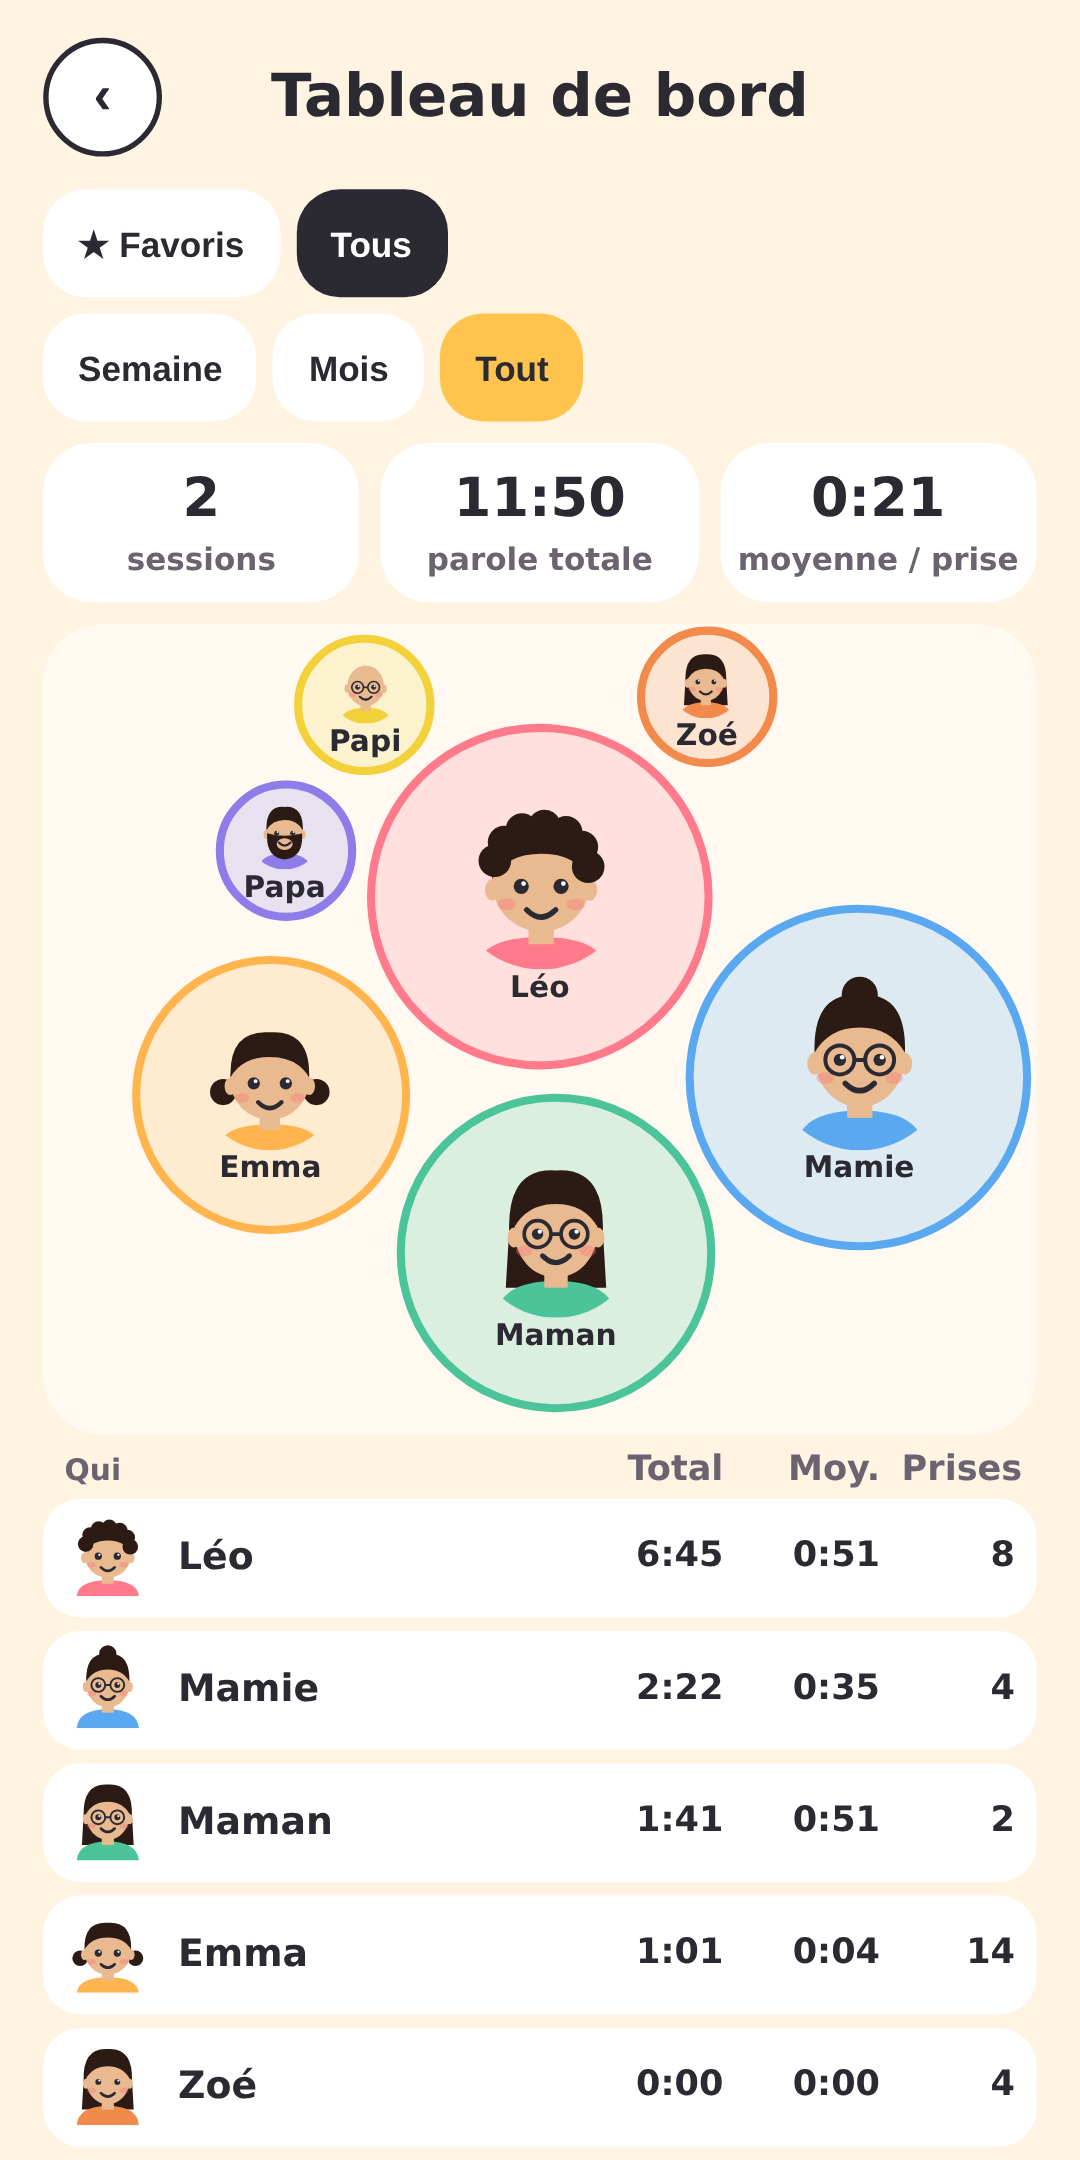
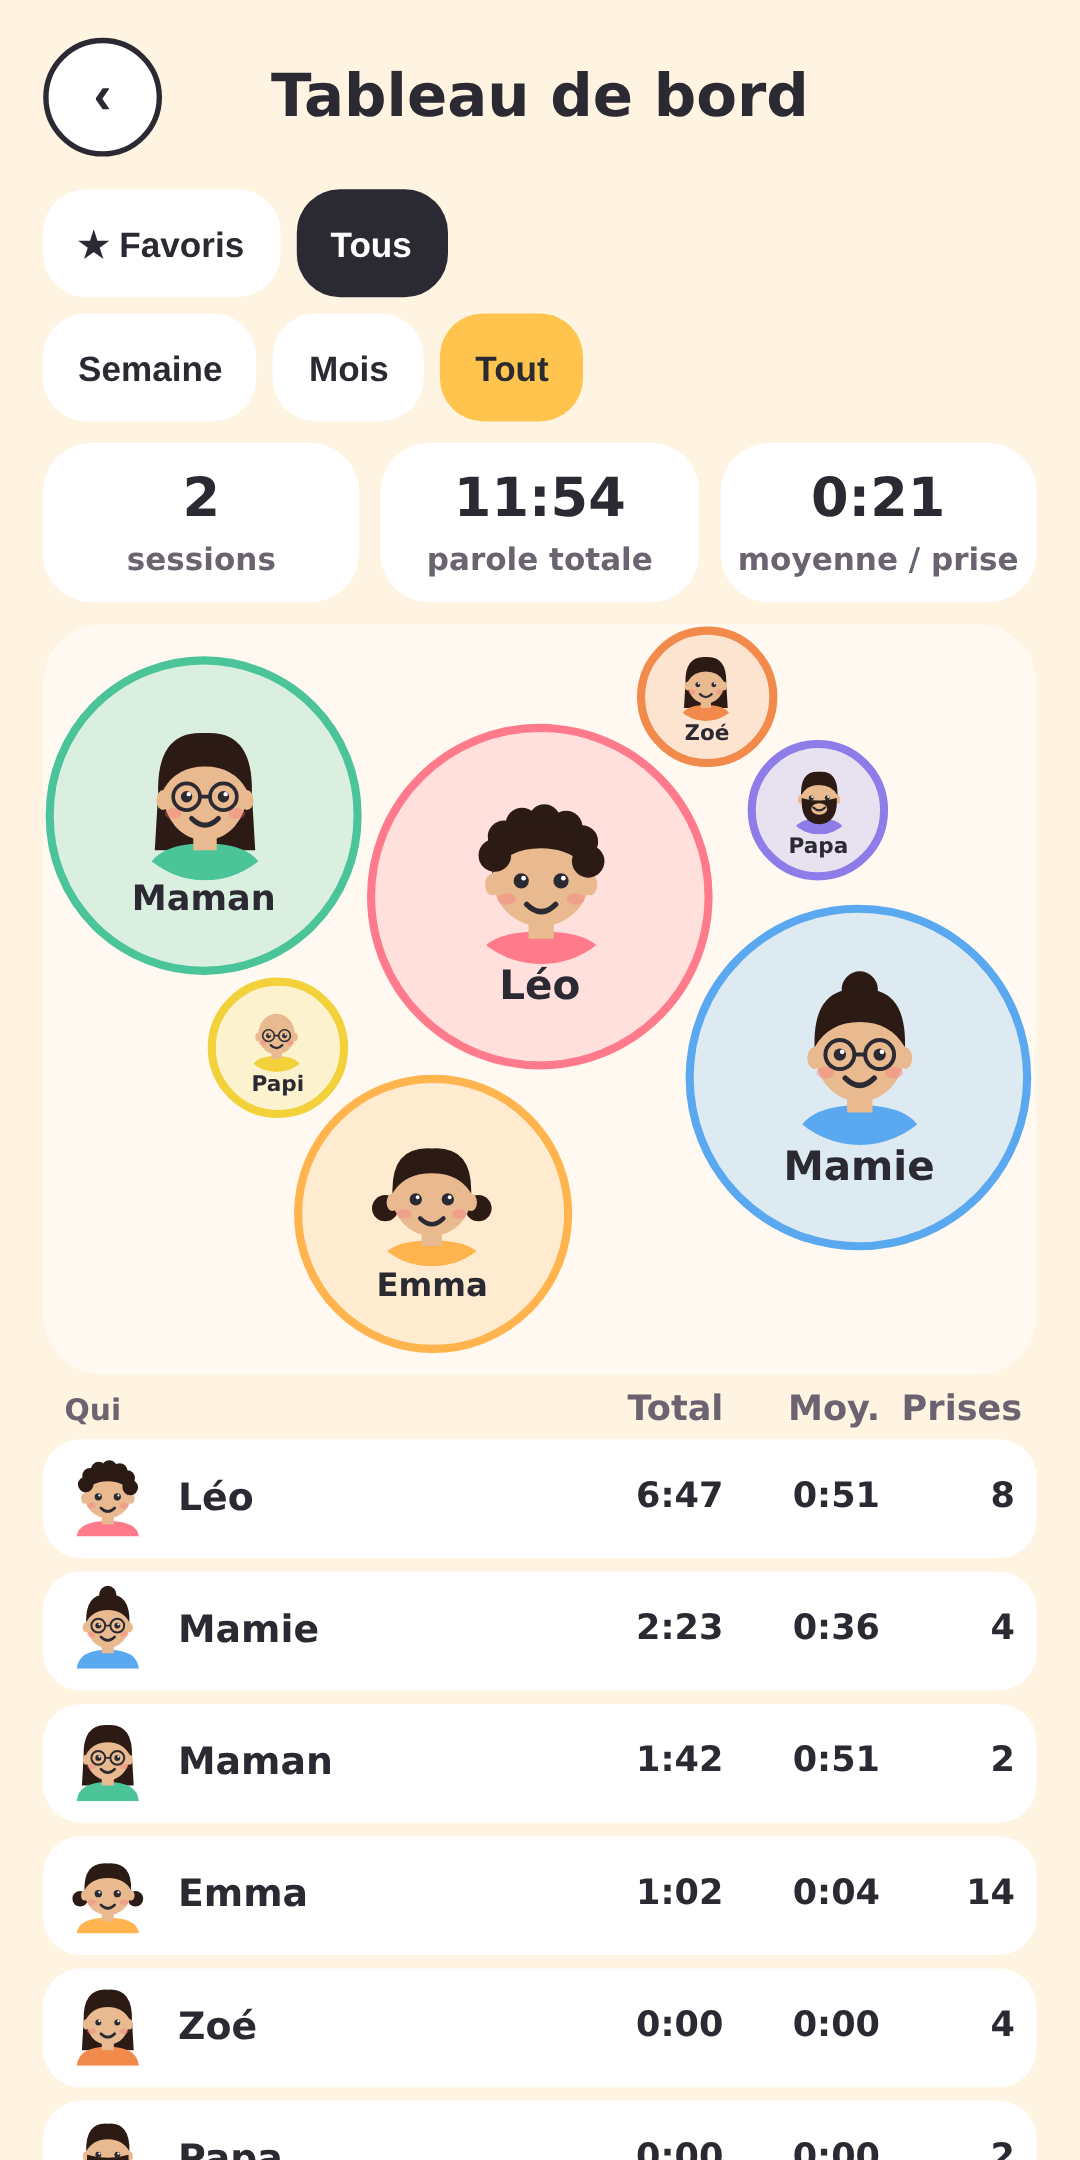
Corrige les légendes tronquées sur les bulles et met à jour les captures Play Store
- Quantifie les totaux de parole par pas de 5 s pour stabiliser les rayons des bulles (les mises à jour toutes les 500 ms relançaient les transitions et provoquaient chevauchements et troncature des noms)
- Adapte la taille de la police des clusters au rayon (8-16 px) pour que les noms longs tiennent en entier
- Allonge l'attente de stabilisation dans les tests UI (1100 ms)
- Régénère les captures 3-session, 4-depassement, 5-bilan et 6-historique avec les noms lisibles

diff --git a/tests/ui.test.js b/tests/ui.test.js
@@ -24,7 +24,9 @@ let step = 0;
   const shot = async name => { step++; const f = `${OUT}/${String(step).padStart(2, '0')}-${name}.png`; await page.screenshot({ path: f }); return f; };
   const click = sel => page.evaluate(s => { const e = document.querySelector(s); if (!e) throw new Error('introuvable: ' + s); e.click(); }, sel);
   const text = () => page.evaluate(() => document.body.innerText);
-  const adv = async ms => { await page.evaluate(m => window.__advance(m), ms); await new Promise(r => setTimeout(r, 700)); };
+  /* 1100 ms > transition CSS des bulles (0,9 s) : les captures montrent l'état stable,
+     sans chevauchement transitoire des bulles en cours de déplacement. */
+  const adv = async ms => { await page.evaluate(m => window.__advance(m), ms); await new Promise(r => setTimeout(r, 1100)); };
   const type = async (sel, v) => { await page.focus(sel); await page.keyboard.type(v); };
 
   // 1. accueil vide
@@ -78,7 +80,7 @@ let step = 0;
   t = await text(); assert(t.includes('Tonton Jo') && t.includes('invité'), 'invité ajouté');
   await shot('preparation');
   await click('[data-act=launch]');
-  await new Promise(r => setTimeout(r, 900));
+  await new Promise(r => setTimeout(r, 1200));
   await shot('live-depart');
   const fit = () => page.evaluate(() => { const st = document.getElementById('stage'); return [...document.querySelectorAll('.bubble')].map(b => ({ n: b.querySelector('.bn').textContent, over: (b.offsetTop + b.offsetHeight) - st.clientHeight })).filter(x => x.over > 2); });
   assert.deepStrictEqual(await fit(), [], 'toutes les bulles visibles sans défiler (écran court compris)');

diff --git a/app/src/main/assets/logic.js b/app/src/main/assets/logic.js
@@ -214,10 +214,16 @@
     var ids = Object.keys(totalsById), n = Math.max(1, ids.length);
     var rmin = Math.max(26, Math.min(46, Math.sqrt((W * H * 0.42) / (n * Math.PI)) * 0.55));
     var rmax = Math.max(rmin + 8, Math.min(W * 0.28, 92));
-    var tmax = Math.max(120000, Math.max.apply(null, ids.map(function (i) { return totalsById[i]; }).concat([0])));
+    /* Totaux arrondis au pas de 5 s : pendant une prise de parole, les rayons ne changent
+       que par sauts discrets. Sans cela, le rafraîchissement (2 fois/s) relançait les
+       transitions CSS (0,9 s) en boucle et les bulles se chevauchaient en permanence,
+       masquant les prénoms voisins, alors que la disposition calculée ne se superpose pas. */
+    var q = {};
+    ids.forEach(function (id) { q[id] = Math.floor((totalsById[id] || 0) / 5000) * 5000; });
+    var tmax = Math.max(120000, Math.max.apply(null, ids.map(function (i) { return q[i]; }).concat([0])));
     var out = {};
     ids.forEach(function (id) {
-      var f = Math.sqrt(totalsById[id] / tmax);
+      var f = Math.sqrt(q[id] / tmax);
       out[id] = rmin + (rmax - rmin) * Math.min(1, f);
     });
     if (activeId && out[activeId] != null) out[activeId] = Math.max(out[activeId], Math.min(W * 0.27, 90));

diff --git a/app/src/main/assets/app.js b/app/src/main/assets/app.js
@@ -297,7 +297,7 @@
     el.style.height = pk.height + 'px';
     el.innerHTML = list.map(function (p) {
       var r = radii[p.id], c = pk.pos[p.id], a = Math.round(r * 1.05);
-      return '<div class="bubble" style="width:' + 2 * r + 'px;height:' + 2 * r + 'px;left:' + (c.x - r) + 'px;top:' + (c.y - r) + 'px;background:' + bgFor(p.avatar) + ';border-color:' + bdFor(p.avatar) + '"><div class="av" style="width:' + a + 'px;height:' + a + 'px">' + avatarHtml(p.avatar, a) + '</div><div class="bn" style="font-size:11px">' + esc(p.name) + '</div></div>';
+      return '<div class="bubble" style="width:' + 2 * r + 'px;height:' + 2 * r + 'px;left:' + (c.x - r) + 'px;top:' + (c.y - r) + 'px;background:' + bgFor(p.avatar) + ';border-color:' + bdFor(p.avatar) + '"><div class="av" style="width:' + a + 'px;height:' + a + 'px">' + avatarHtml(p.avatar, a) + '</div><div class="bn" style="font-size:' + Math.max(8, Math.min(16, Math.round(r / 4.4))) + 'px">' + esc(p.name) + '</div></div>';
     }).join('');
   }
   function summaryCluster() { clusterInto('scl', ui.summary.people, 'ms'); }
